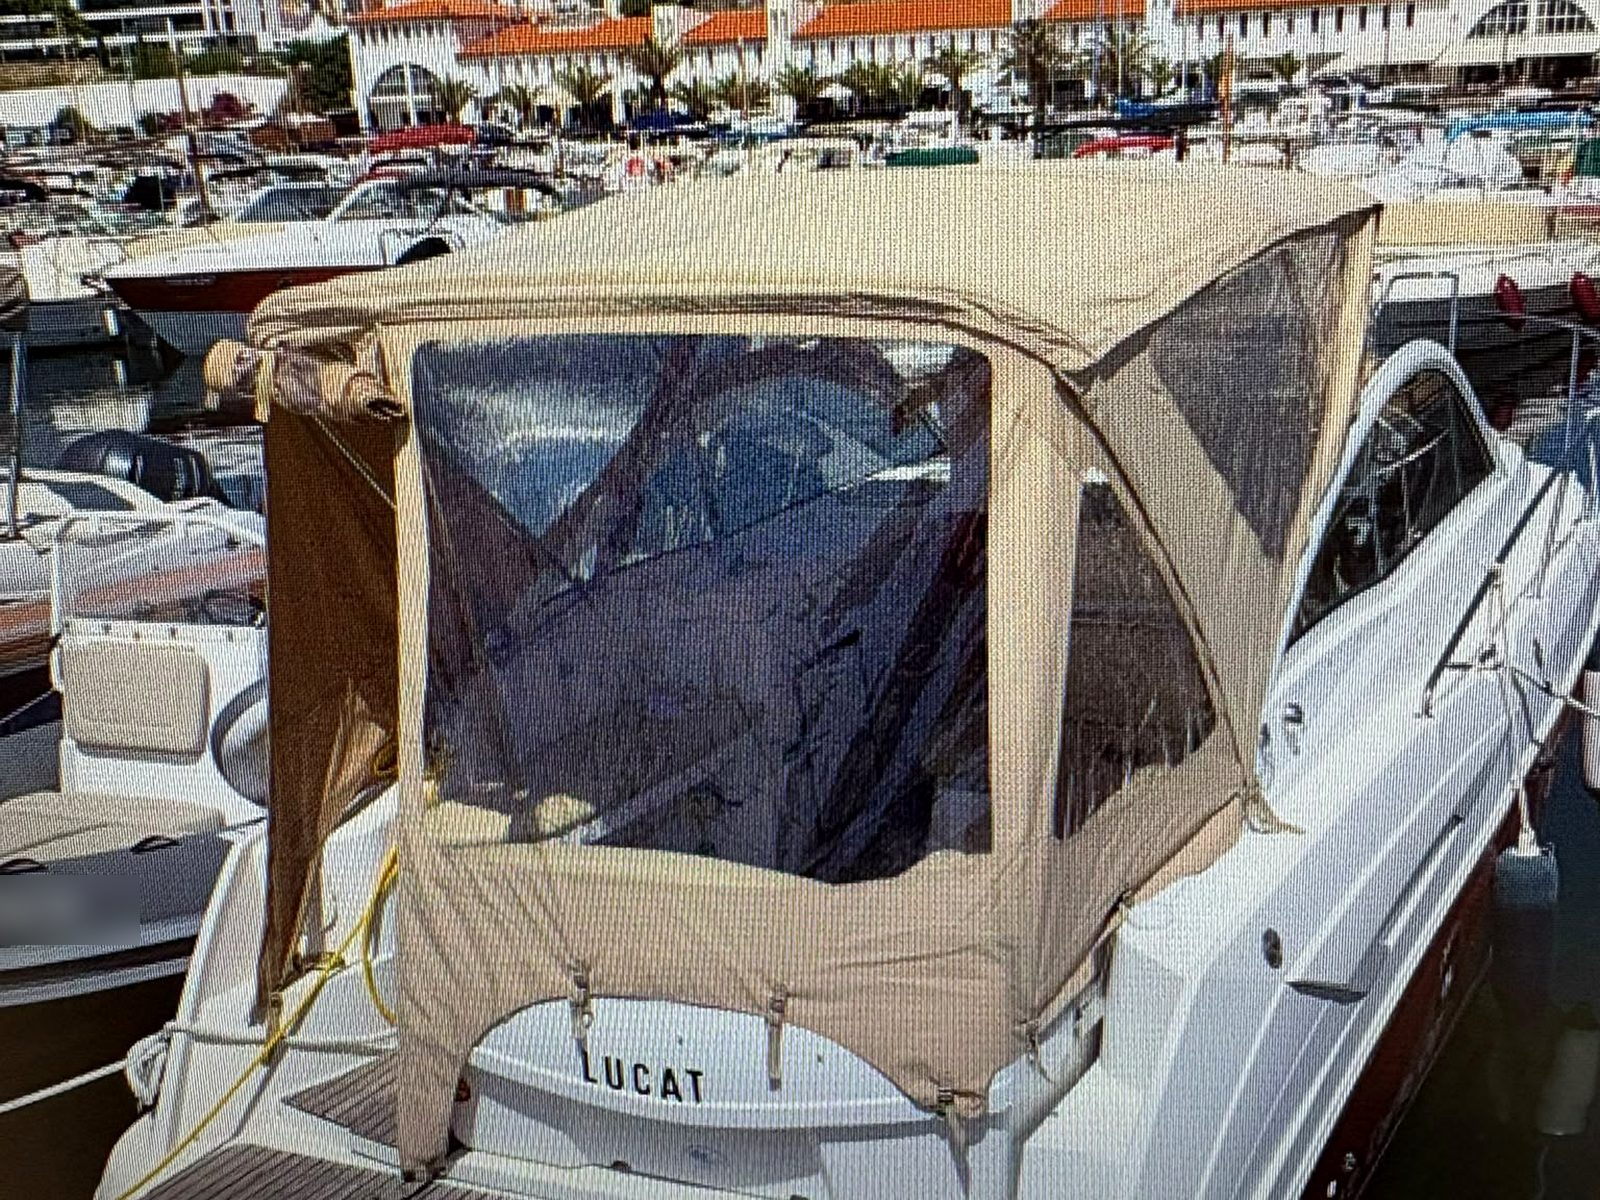
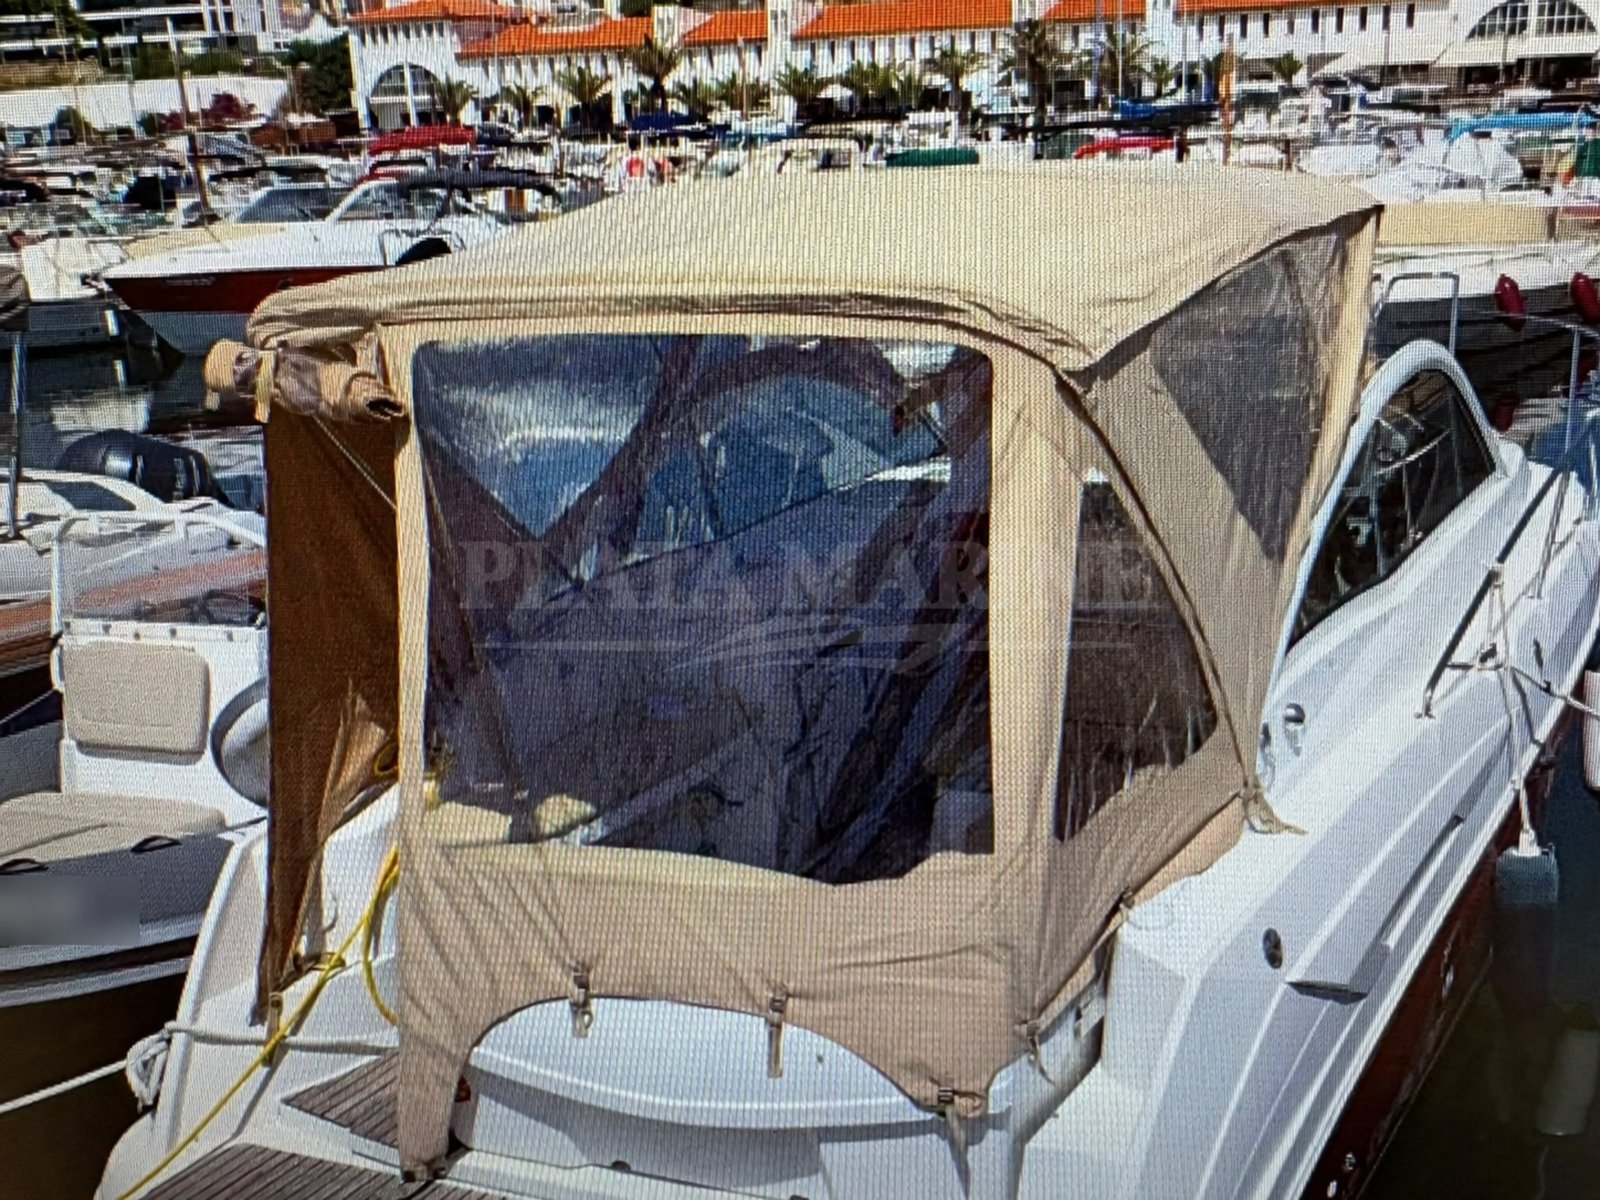
Monte Carlo 27: fotos editadas, portada en cala + alt

diff --git a/index.html b/index.html
@@ -579,7 +579,7 @@ section[id]{scroll-margin-top:78px}
         </article>
 
         <article class="boat featured" data-pm-boat="monte-carlo-27">
-          <div class="gal" data-imgs="monte-carlo-27-1,monte-carlo-27-2,monte-carlo-27-3,monte-carlo-27-4" data-alt="Beneteau Monte Carlo 27 amarrada de popa en un puerto de la Costa Brava" data-href="barcos/monte-carlo-27.html"><span class="boat-status">Disponible</span></div>
+          <div class="gal" data-imgs="monte-carlo-27-1,monte-carlo-27-2,monte-carlo-27-3,monte-carlo-27-4" data-alt="Beneteau Monte Carlo 27 a flote en una cala" data-href="barcos/monte-carlo-27.html"><span class="boat-status">Disponible</span></div>
           <div class="boat-body">
             <div class="boat-head"><h3><a href="barcos/monte-carlo-27.html" style="color:inherit;text-decoration:none">Beneteau Monte Carlo 27</a></h3><p class="price">64.900 €</p></div>
             <dl class="specs">
